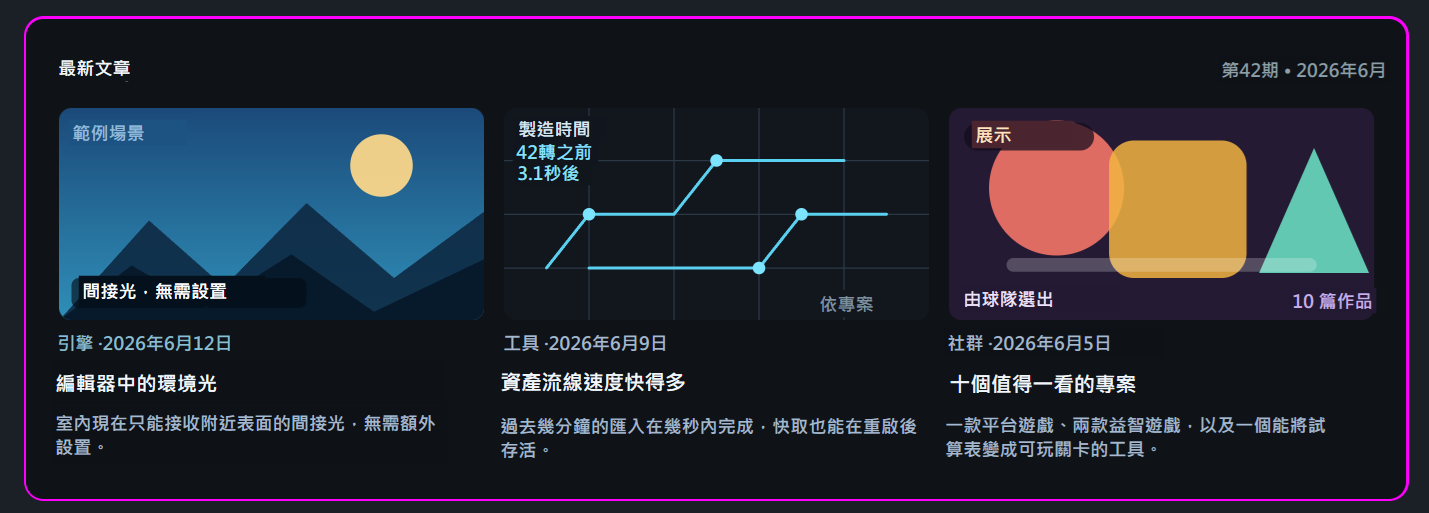
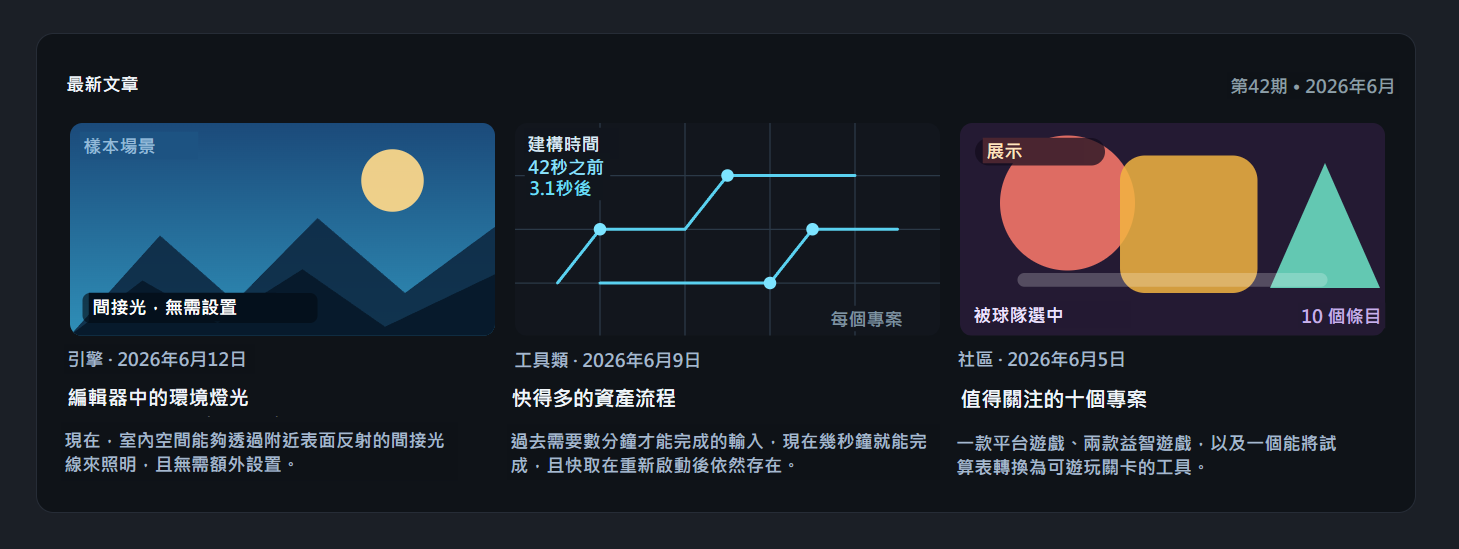
feat: 縮圖加回原文譯文標籤與中間的圓形握把

diff --git a/tools/build-og.py b/tools/build-og.py
@@ -117,6 +117,29 @@ TEMPLATE = u'''<!doctype html>
     box-shadow: 0 -20px 60px -30px rgba(0, 0, 0, 0.9);
   }}
   .shot img {{ display: block; width: {shot_w}px; height: {shot_h}px; }}
+  /* 以下三個都照抄網站的 .compare__handle / .compare__grip / .compare__tag */
+  .divider {{
+    position: absolute; top: 0; bottom: 0; left: 50%; width: 2px; margin-left: -1px;
+    background: rgba(255, 255, 255, 0.92);
+    box-shadow: 0 0 0 1px rgba(0, 0, 0, 0.22), 0 0 18px rgba(0, 0, 0, 0.35);
+  }}
+  .grip {{
+    position: absolute; top: 50%; left: 50%; translate: -50% -50%;
+    display: grid; place-items: center; width: 42px; height: 42px;
+    border-radius: 999px; background: rgba(255, 255, 255, 0.94);
+    box-shadow: 0 6px 20px -6px rgba(0, 0, 0, 0.6); color: #0d1622;
+  }}
+  .grip svg {{
+    width: 22px; height: 22px; fill: none; stroke: currentColor;
+    stroke-width: 2; stroke-linecap: round; stroke-linejoin: round;
+  }}
+  .tag {{
+    position: absolute; top: 11px; padding: 5px 13px; border-radius: 999px;
+    background: rgba(8, 13, 22, 0.72); color: #fff;
+    font-size: 15px; font-weight: 620; letter-spacing: 0.02em;
+  }}
+  .tag--before {{ left: 11px; }}
+  .tag--after {{ right: 11px; }}
 </style>
 <div class="glow"></div>
 <div class="stack">
@@ -134,6 +157,10 @@ TEMPLATE = u'''<!doctype html>
 </div>
 <div class="shot">
   <img src="file:///{shot}" alt="">
+  <span class="tag tag--before">{tag_before}</span>
+  <span class="tag tag--after">{tag_after}</span>
+  <span class="divider"></span>
+  <span class="grip"><svg viewBox="0 0 24 24"><path d="M10 8.5 6.5 12l3.5 3.5M14 8.5l3.5 3.5L14 15.5"/></svg></span>
 </div>
 '''
 
@@ -165,17 +192,11 @@ def compose_shot():
     shot = before.copy()
     shot.paste(after.crop((mid, 0, w, h)), (mid, 0))
 
-    # 先縮到縮圖上的寬度，分割線最後才畫，才會是乾淨的 2px
+    # 分割線與握把由 HTML 疊上去，這裡只負責把兩半拼起來
     height = int(round(h * SHOT_W / float(w)))
     shot = shot.resize((SHOT_W, height), Image.LANCZOS)
     if height > SHOT_MAX_H:
         shot = shot.crop((0, 0, SHOT_W, SHOT_MAX_H))
-
-    px = shot.load()
-    centre = SHOT_W // 2
-    for x in range(centre - 1, centre + 1):
-        for y in range(shot.size[1]):
-            px[x, y] = (255, 255, 255)
 
     fd, tmp = tempfile.mkstemp(suffix='.png')
     os.close(fd)
@@ -186,7 +207,7 @@ def compose_shot():
 def strings(page):
     """把首頁已經翻譯好的字撈出來，不要在這裡再維護一份。"""
     html = io.open(os.path.join(ROOT, page), encoding='utf-8').read()
-    want = ('hero.free', 'hero.claim')
+    want = ('hero.free', 'hero.claim', 'compare.before', 'compare.after')
     out = {}
     for key in want:
         m = re.search(r'data-i18n="%s">([^<]*)<' % re.escape(key), html)
@@ -208,6 +229,7 @@ def main():
             html = TEMPLATE.format(
                 font=font, free=s['hero.free'], claim=s['hero.claim'],
                 lede=LEDE[lang],
+                tag_before=s['compare.before'], tag_after=s['compare.after'],
                 shot=shot.replace('\\', '/'), shot_w=SHOT_W, shot_h=shot_h)
 
             fd, tmp = tempfile.mkstemp(suffix='.html')

diff --git a/docs/site/README.md b/docs/site/README.md
@@ -49,12 +49,14 @@ python tools/build-og.py
 4. 跑 `python tools/build-og.py`
 
 **兩張要裁成一模一樣的範圍**，中間那條分割線才對得起來；尺寸不同產生器會擋下來。
+四個角記得留一點空白，「原文／譯文」的標籤要放在那裡。
 寬度會縮到 1104，高度照比例走，超過 368 就從底部切掉。
 
 | 縮圖上的字 | 來源 |
 |------------|------|
 | 標語 `hero.claim`、`hero.free` | 各語言的 `index.html`，自動撈 |
 | 簡介那一行 | `build-og.py` 的 `LEDE`，是 `hero.lede` 的第一句 |
+| 「原文／譯文」標籤 | `compare.before` / `compare.after`，自動撈 |
 
 **改了 `hero.claim`、`hero.free` 或 `hero.lede` 之後要重跑**，其中 `hero.lede`
 還要順手改 `LEDE`，否則縮圖上的字會停在舊版。這支需要本機有 Edge 與 Pillow，
